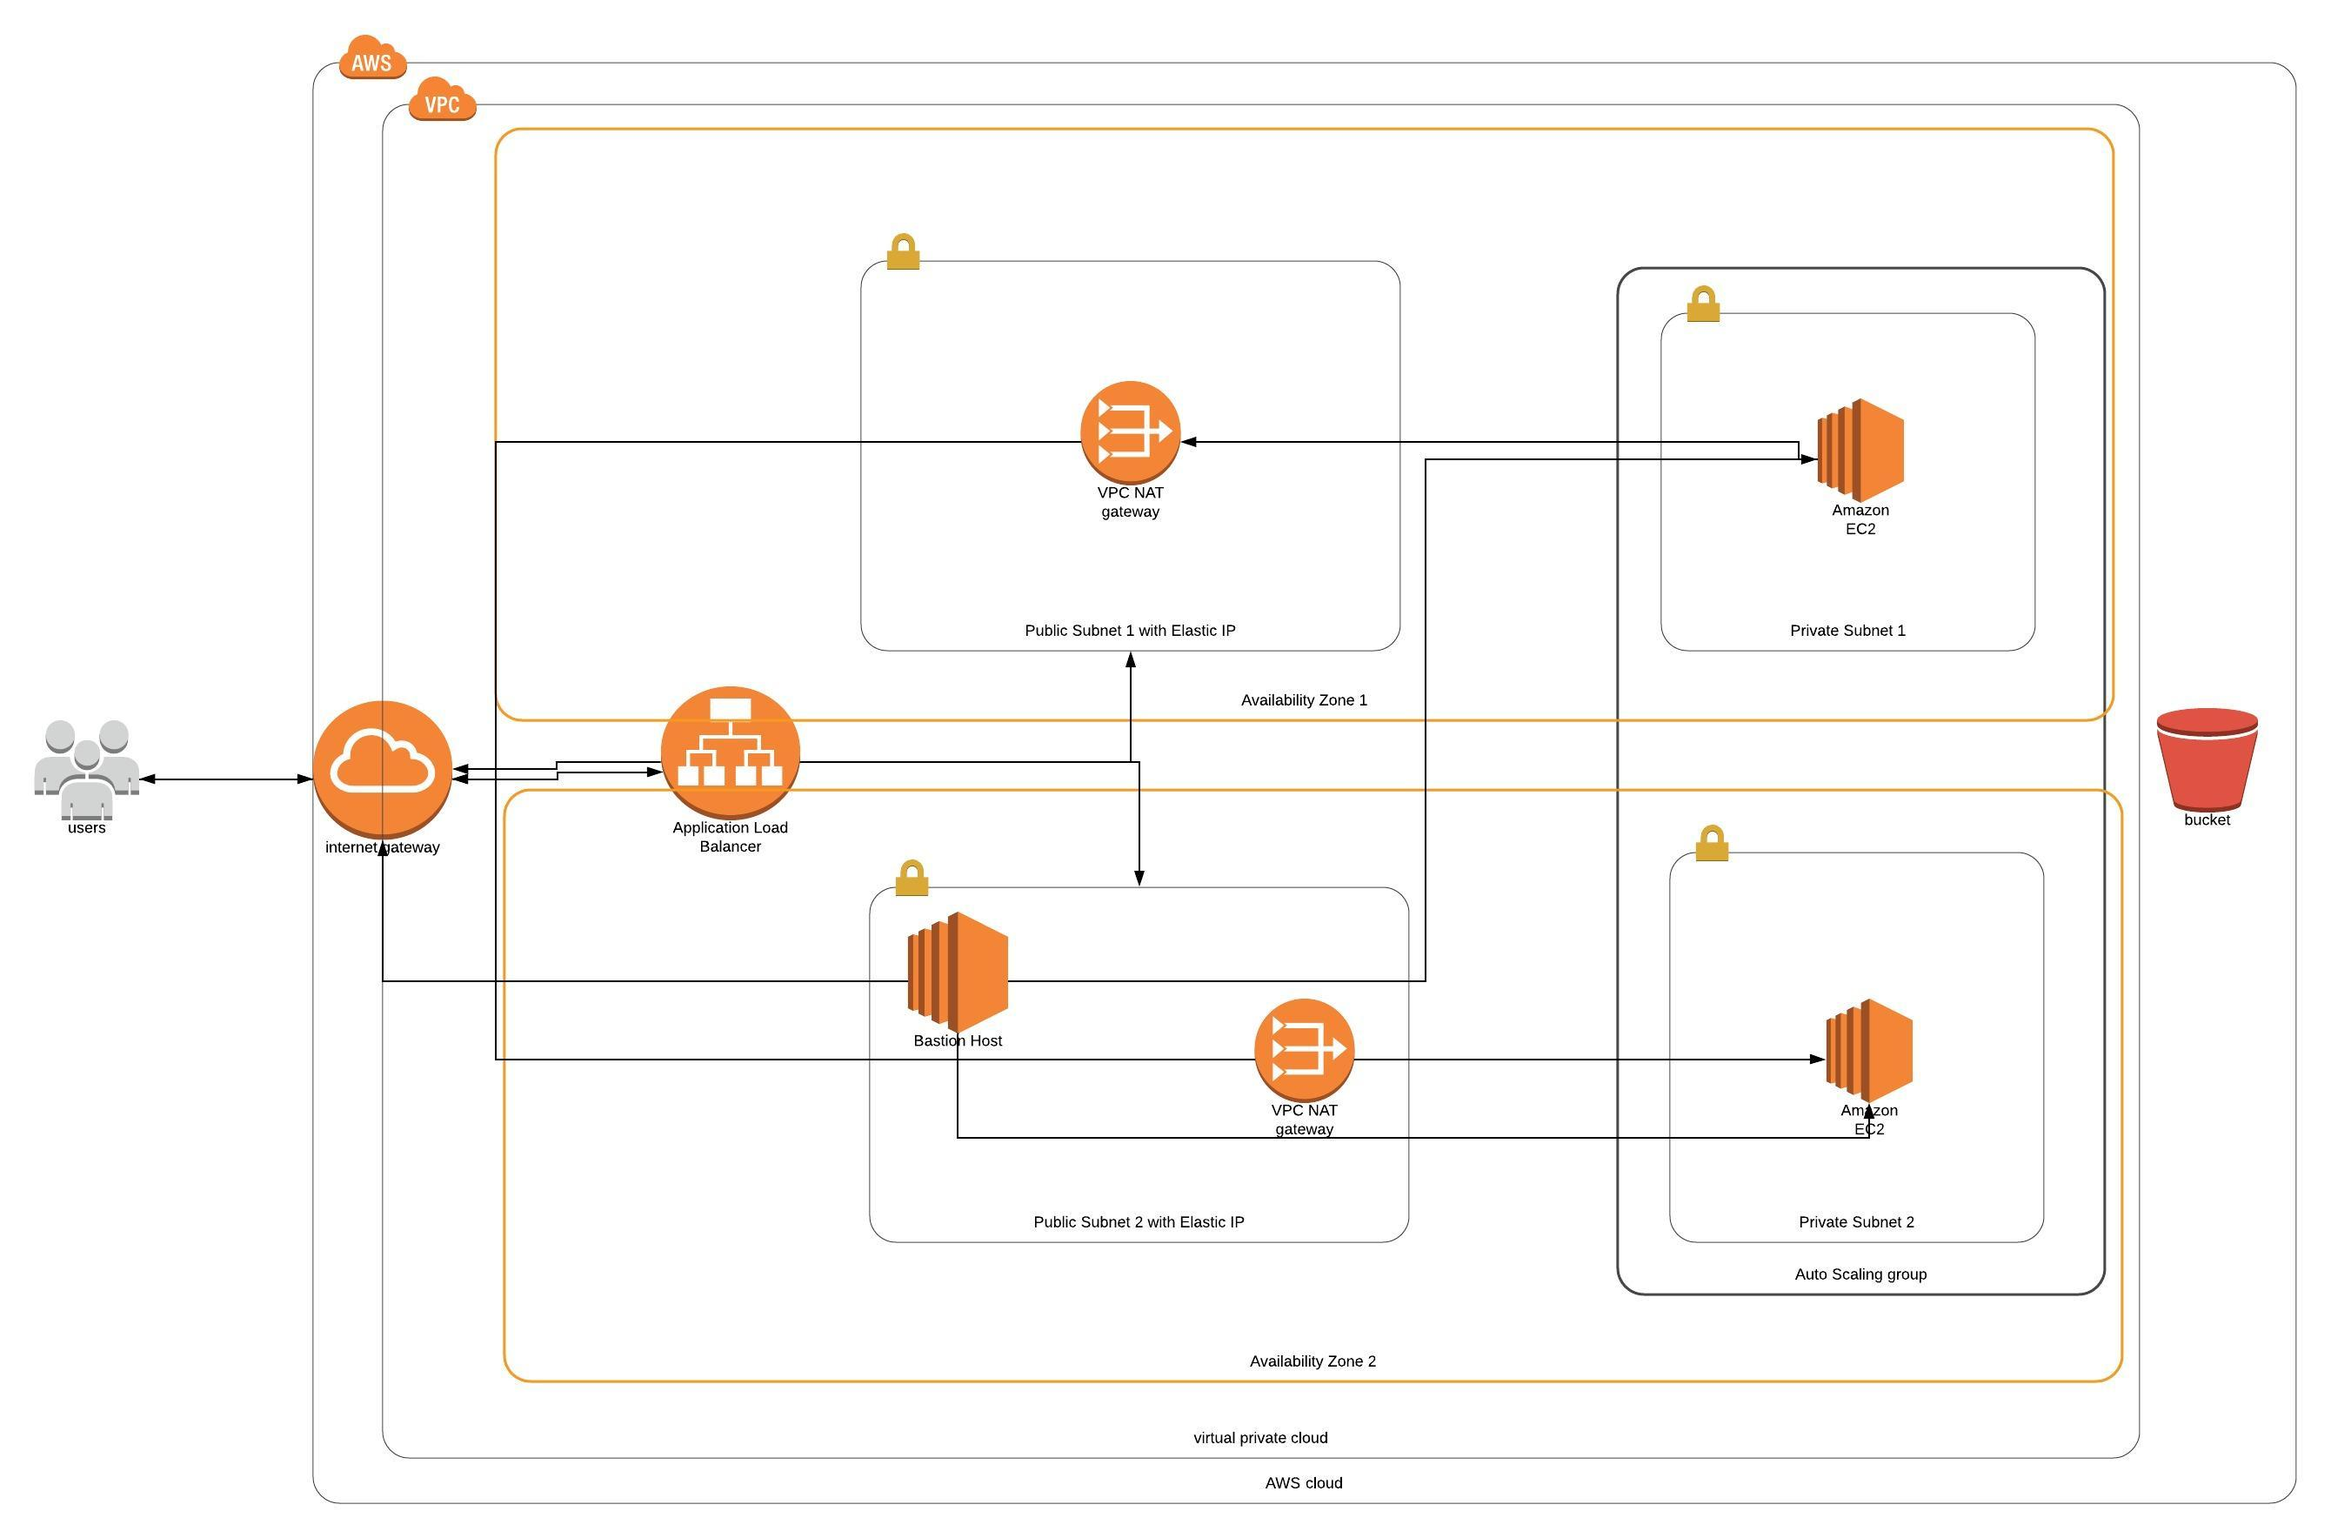
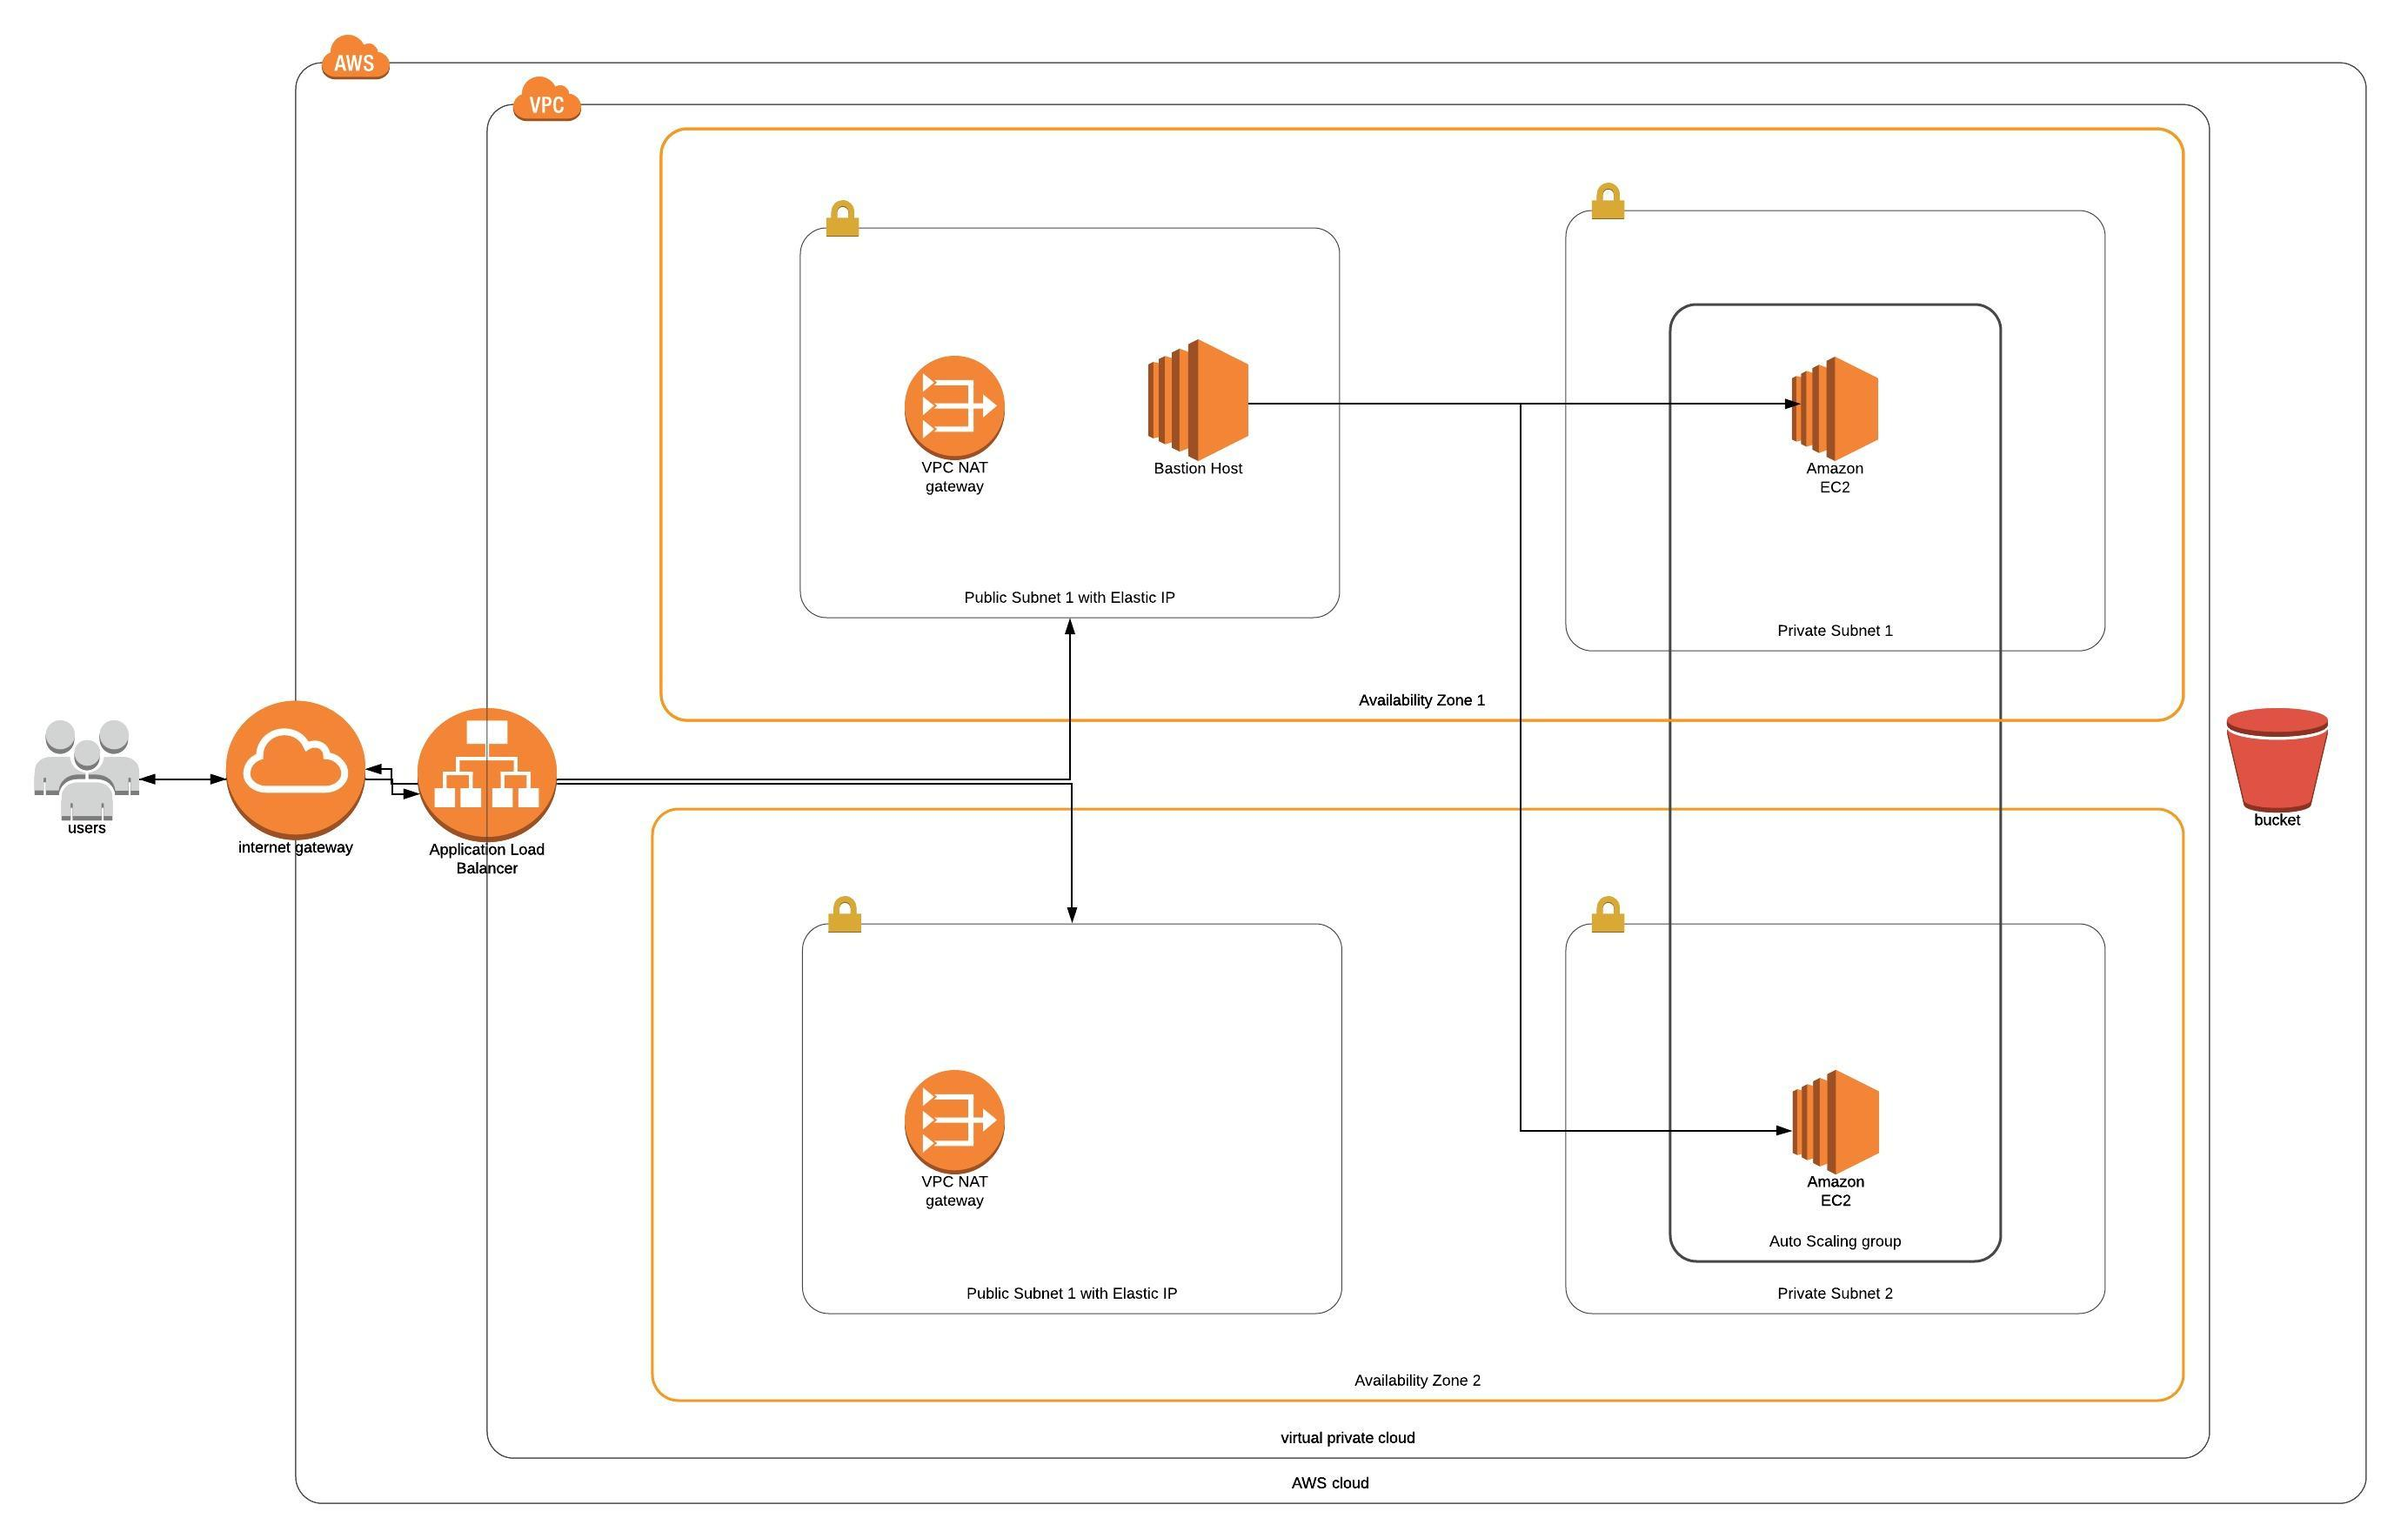
upload README.md

diff --git a/README.md b/README.md
@@ -4,8 +4,10 @@
 
 This is an assignment for the [Udacity Devops Engineer Nanodegree](https://eu.udacity.com/course/cloud-dev-ops-nanodegree--nd9991) program.
 
-The task is to deploy an application (Apache Web Server) with high availability infrastructure. The website is hosted on servers within private subnets. All trafic to the servers should be routed through NAT gateways located in public subnets. Also, bastion functionality has been implemented in public subnet for better secure access to instance.
+The task is to deploy an application (Apache Web Server) with high availability infrastructure. The website is hosted on servers within private subnets. All trafic to the servers is routed through Bastion located in one of the public subnet. Also, bastion functionality has been implemented for better secure access to instance via key pair.
 For high availability, project is tailored with leverage auto scaling parameters. Should not be any single point of failure.
+Also, the code (JavaScript and HTML) is pick up from S3 Storage and deploy it in the appropriate folder on the web server.
+NatGateways has been configured to allocate Elastic IP.
 
 To deploy this infrastructure there is a helper script included in the repository. It can be used like this: 
 1.	`aws cloudformation create-stack --stack-name udagram-network --template-body file://udagram-network.yml --parameters file://udagram-network-parameters.json --region=us-west-2`
